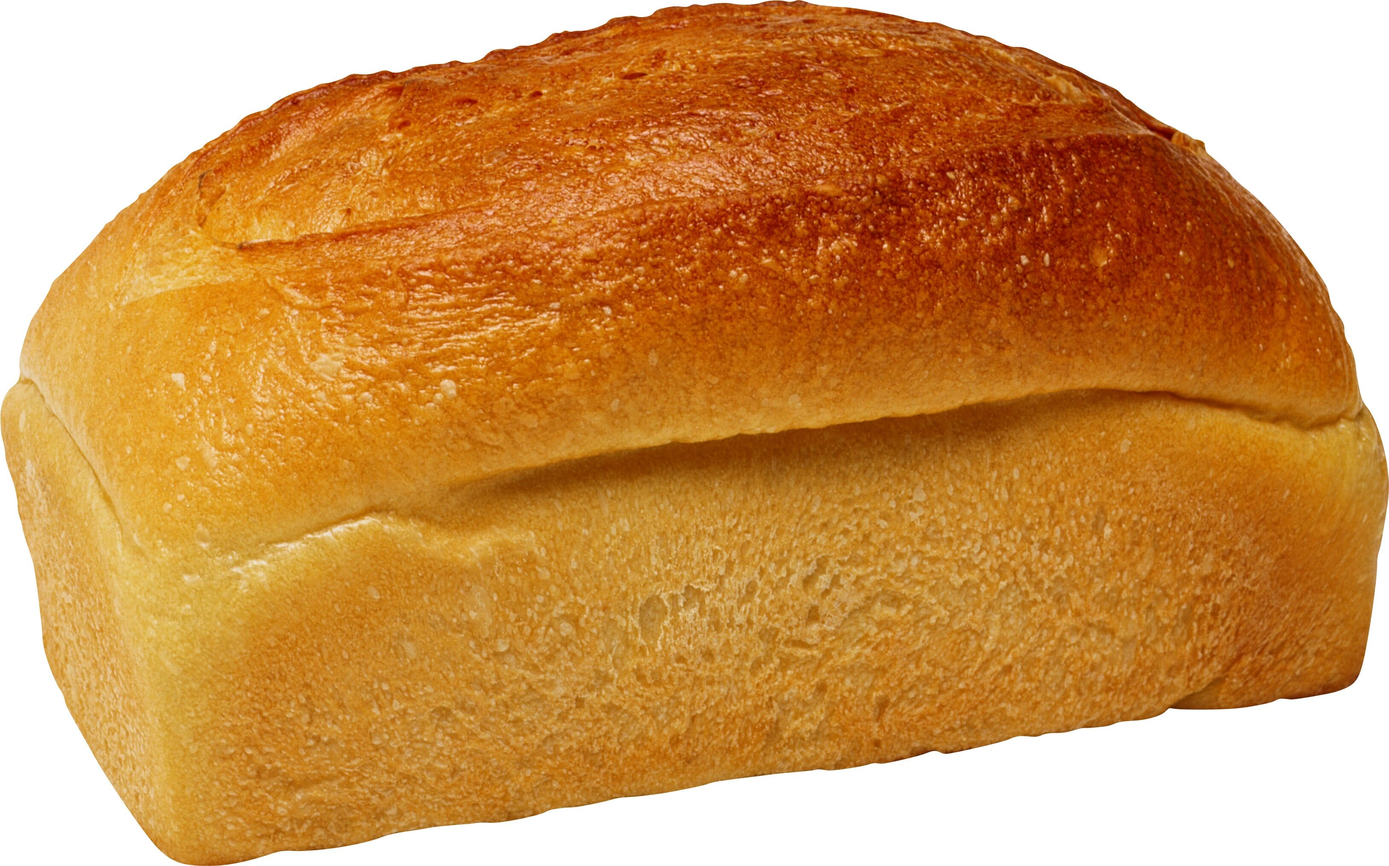
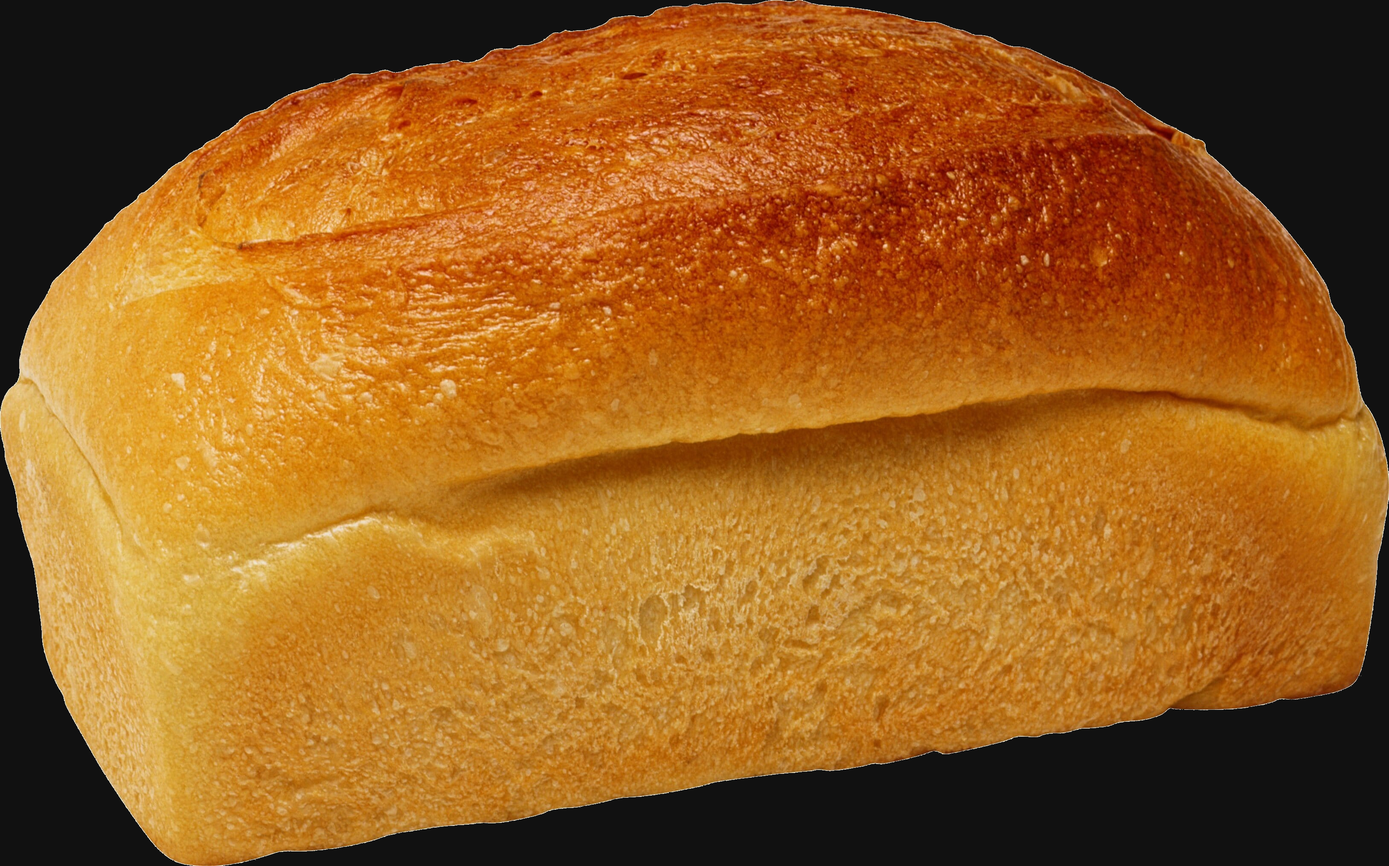
Kept bread, extended website.

Changed region(s): [[0.0, 0.5278, 1.0, 1.0], [0.5894, 0.0, 1.0, 0.5278], [0.0, 0.0, 0.5584, 0.4657]]

diff --git a/design.css b/design.css
@@ -1,11 +1,20 @@
 .container {
   height: 500px;
   position: relative;
+
 }
 
 .containert {
   height: 200px;
   position: relative;
+  bottom: auto;
+
+}
+
+.centert h2 {
+
+  color: white;
+
 }
 
 .center {
@@ -30,4 +39,118 @@ img {
     width: 80%;
     height: auto;
     overflow: hidden;
+}
+
+body {
+
+  margin: 0;
+  padding: 0;
+background-color: #111;
+
+}
+
+/* navbar stuff */
+ul.topnav {
+  list-style-type: none;
+  margin: 0;
+  padding: 0;
+  overflow: hidden;
+  background-color: #333;
+}
+
+ul.topnav li {
+
+  float: left;  
+}
+
+ul.topnav li a {
+  display: block;
+  color: white;
+  text-align: center;
+  padding: 14px 16px;
+  text-decoration: none;
+}
+
+ul.topnav li a:hover:not(.active) {background-color: rgb(58, 9, 9);}
+
+ul.topnav li a.active {background-color: #7e0a0a;}
+
+ul.topnav li.right {float: right;}
+
+@media screen and (max-width: 600px) {
+  ul.topnav li.right, 
+  ul.topnav li {float: none;}
+}
+
+/* Split the screen in half */
+.split {
+  height: 100%;
+  width: 60%;
+  position: fixed;
+  z-index: 1;
+  top: 50;
+  overflow-x: hidden;
+  padding-top: 20px;
+}
+
+/* Control the left side */
+.left {
+  left: 0;
+  background-color: #111;
+}
+
+/* Control the right side */
+.right {
+  right: 0;
+  background-color: #741616;
+}
+
+/* If you want the content centered horizontally and vertically */
+.centered {
+  font-family: Arial;
+  color: white;
+  position: absolute;
+  top: 30%;
+  left: 32%;
+  transform: translate(-50%, -50%);
+  text-align: center;
+}
+
+/* variation for right */
+.centeredr {
+  font-family: Arial;
+  font-size: x-large;
+  color: white;
+  position: absolute;
+  top: 2%;
+  right: 43%;
+  transform: translate(-50%, -50%);
+  text-align: center;
+}
+
+/* variation for left*/
+.centeredl {
+  font-family: Arial;
+  color: white;
+  position: absolute;
+  top: 10%;
+  left: 10%;
+  transform: translate(-50%, -50%);
+  text-align: center;
+}
+
+.centeredt {
+  font-family: Arial;
+  color: white;
+  position: absolute;
+  left: 50%;
+  top: 50%;
+  transform: translate(-50%, -50%);
+  text-align: center;
+}
+
+/* Style the image inside the centered container, if needed */
+.centered img {
+  width: 150px;
+  border-radius: 50%;
 }

diff --git a/about.html b/about.html
@@ -1,0 +1,38 @@
+<html>
+<head>
+<meta charset="UTF-8">
+<meta name="viewport" content="width=device-width, initial-scale=1">
+<link rel="stylesheet" href="https://www.w3schools.com/w3css/3/w3.css">
+<link rel="stylesheet" href="design.css">
+<title>Home of Bread</title>
+</head>
+<body>
+
+<ul class="topnav">
+    <li><a href="index.html">Home</a></li>
+    <li><a class="active" href="about.html">About</a></li>
+    <li><a href="mailto:mail@nocx420.xyz" style="padding: right;">Contact</a></li>
+</ul>
+
+<div class="split left">
+  <div class="centered">
+    <a href="https://www.github.com/nocx420" target="_blank"><img src="port.jpg" alt="Image failed to load"></a>
+    <h2 style="text-decoration: underline;">About Me</h2>
+    <span style="display: inline-block; width: 500px; height: 100px;">
+        <p style="text-align: left; font-family: Arial; font-size: x-large;">My name is NOCx and I'm a German student aiming to be come a software developer or a Systems Administrator. I have gained moderate experience in python through my <a href="https://github.com/NOCx420/Discord-Python-Bot" target="_blank" style="color: lightskyblue; text-decoration: none;">discord bot</a> which I intend to remake in java as I'm learning that language as well. I'm also comfortable with using Linux and troubleshooting problems as I have used linux as a second operating system since 2016. I like to work in a team and to solve problems as quickly as possible. </p>
+    </span>    
+  </div>
+</div>
+
+<div class="split right">
+  <div class="centeredr">
+    <p style="font-weight: bold; text-decoration: underline;">Timeline</p>
+  </div>
+  <div class="centeredl" style="font-weight: bold; border-radius: 25px; background: #111; width: 200;">
+
+    <p>1/16/2022: </p><a href="https://github.com/nocx420/Bread4k/" target="_blank" style="color: lightskyblue; text-decoration: none;">Completed website project</a><br><p></p>
+
+  </div>
+</div>
+</body>
+</html>

diff --git a/index.html b/index.html
@@ -1,24 +1,29 @@
 <html>
+<head>
 <meta charset="UTF-8">
 <meta name="viewport" content="width=device-width, initial-scale=1">
 <link rel="stylesheet" href="https://www.w3schools.com/w3css/3/w3.css">
 <link rel="stylesheet" href="design.css">
-<head>
 <title>Home of Bread</title>
 </head>
-<body>
+<body> 
+  <ul class="topnav">
+      <li><a class="active" href="index.html">Home</a></li>
+      <li><a href="about.html">About</a></li>
+      <li><a href="mailto:mail@nocx420.xyz" style="padding: right;">Contact</a></li>
+    </ul>
 
-<div class="container">
-  <div class="center">
-    <a href="https://www.github.com/nocx420" target="_blank"><img src='bread.jpg'></img></a>
-  </div>
-</div>
+    <div class="container">
+      <div class="center">
+        <img src='bread.jpg'></img>
+      </div>
+    </div>
 
-<div class="containert">
-  <div class="centert">
-    <h2 class="w3-wide">"Sometimes you got to see bread up close to appreciate its beauty"</h2>
-    <p class="w3-opacity"><i>-Sun Tzu</i></p>
-  </div>
-</div>
+    <div class="containert">
+      <div class="centert">
+        <h2 class="w3-wide">"Sometimes you got to see bread up close to appreciate its beauty"</h2>
+        <p class="w3-opacity" style="color: white;"><i>-Sun Tzu</i></p>
+      </div>
+    </div>
 </body>
 </html>
